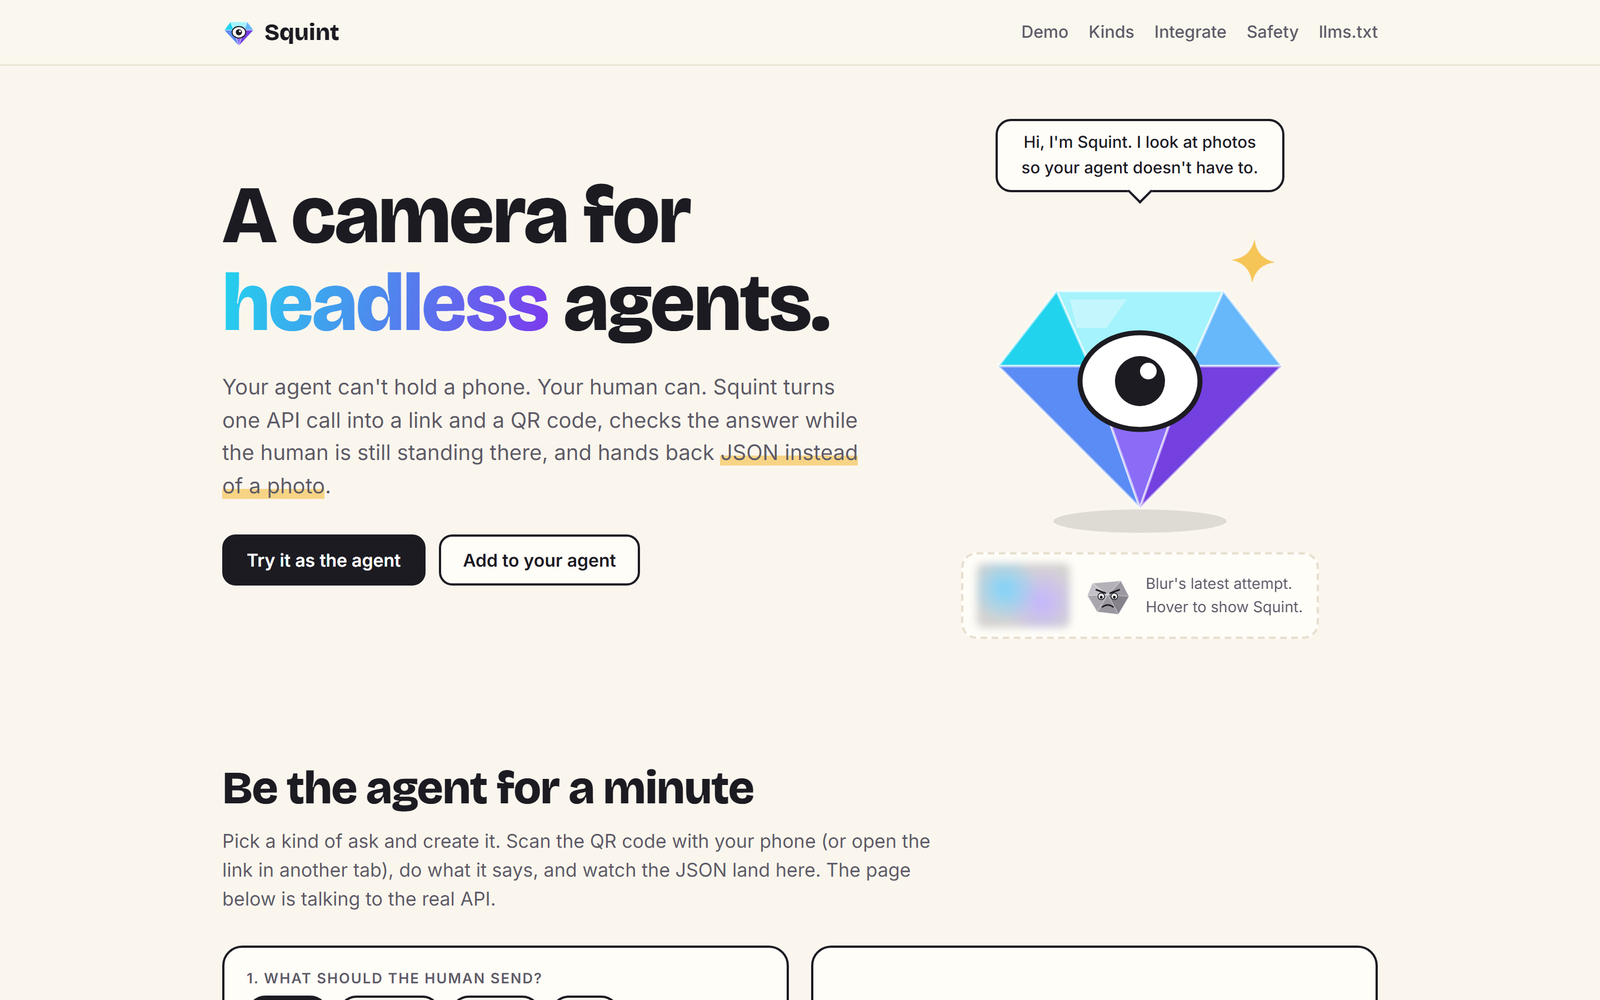
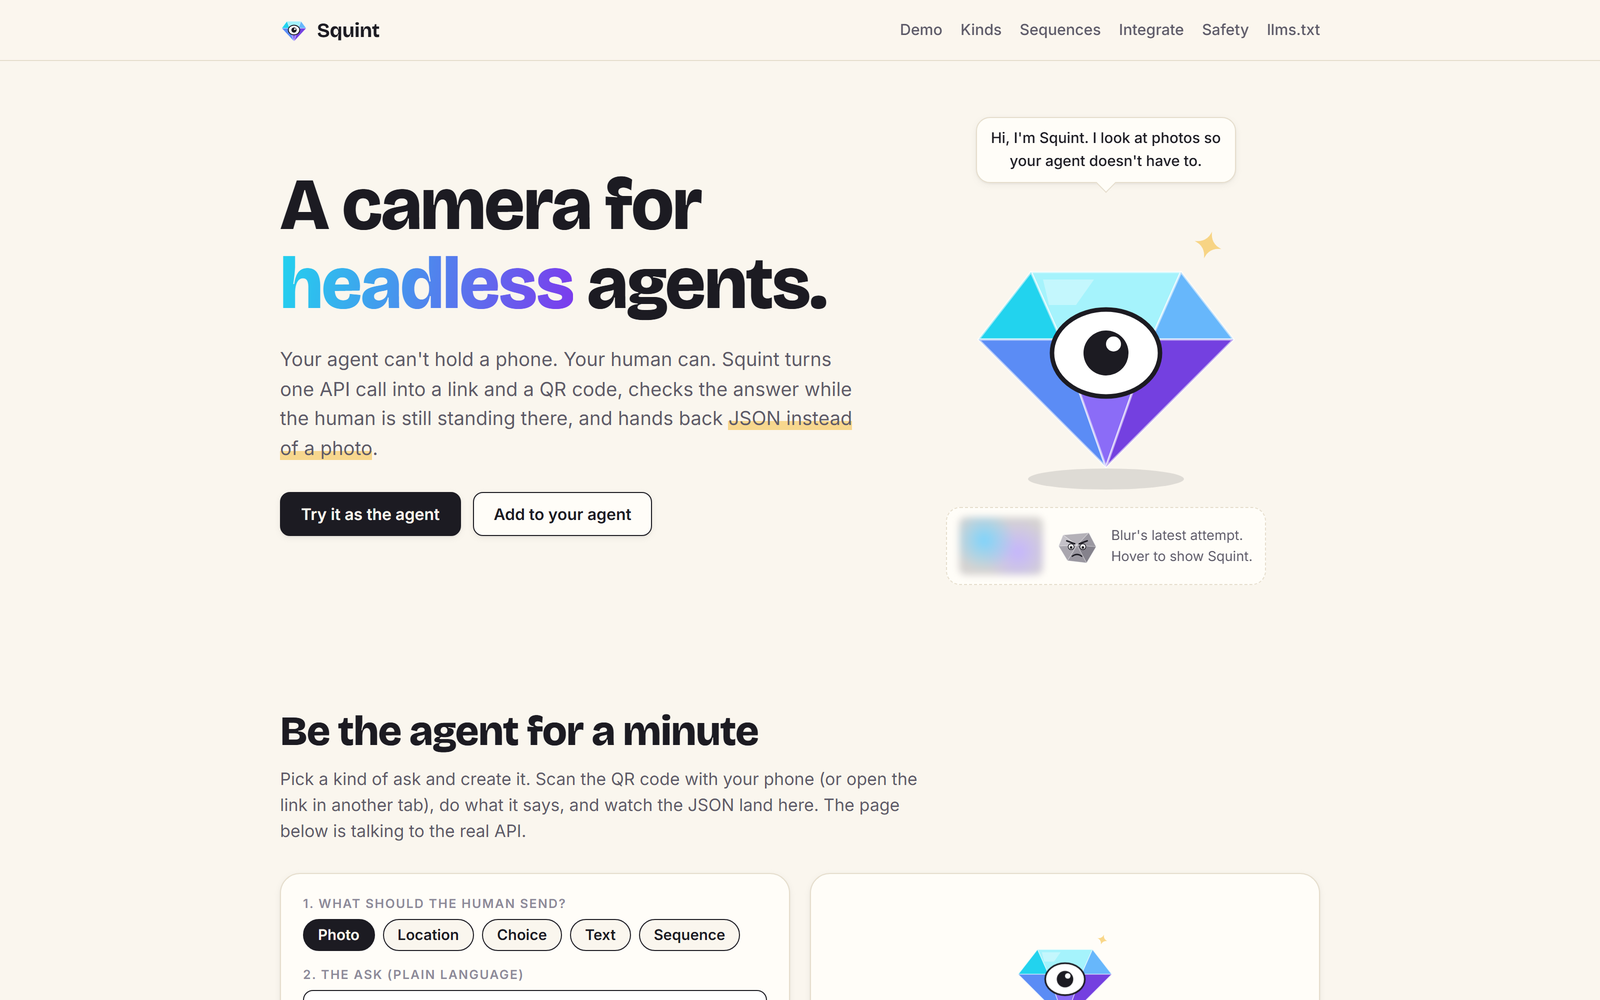
docs: reposition around human senses, document checklists
The README now leads with the wider claim the code earns: photos,
location, choices, text and sequences of them, one typed result back.
New hero shot of the rebuilt landing page.

diff --git a/README.md b/README.md
@@ -1,6 +1,6 @@
 <p align="center"><img src="public/squint.svg" width="72" alt="Squint logo"></p>
 <h1 align="center">Squint</h1>
-<p align="center">A camera for headless agents. Ask a human's phone for a photo, a location, a choice or a short text, and get typed JSON back.</p>
+<p align="center">Human senses for headless agents. Ask a person's phone for a photo, a location, a choice, a short answer, or a whole checklist of them, and get typed JSON back.</p>
 <p align="center">
   <a href="https://squint.elsisi.workers.dev">Live demo</a> ·
   <a href="#how-it-works">How it works</a> ·
@@ -14,13 +14,13 @@
 </p>
 <p align="center"><img src="docs/images/hero.png" alt="Squint landing page" width="100%"></p>
 
-An agent mints a link that asks its human's phone for one real-world thing. Claude vision checks the photo on the spot (blurry, too dark, wrong thing: the human retakes it right there), and the agent receives **typed JSON, never the image**.
+An agent mints a link that asks its human's phone for something in the real world. Claude vision checks each photo on the spot (blurry, too dark, wrong thing: the human retakes it right there), and the agent receives **typed JSON, never the image**. A `sequence` chains up to six captures behind one link, which is enough to run a vehicle handoff, a property inspection or a delivery proof as a single call.
 
 ## Why
 
 Agents with no upload UI (voice agents, background jobs, swarms, anything that talks to a person through SMS or a phone call) cannot take a picture. Today that means building an upload page and storage, then spending agent turns on "that's blurry, please retake" while every attempt costs about 1.5k image tokens.
 
-With Squint the agent makes one call, hands the URL to the human over whatever channel it already has, and waits. The result is a few dozen tokens of JSON.
+With Squint the agent makes one call, hands the URL to the human over whatever channel it already has, and waits. The result is a few dozen tokens of JSON. The retakes, the vision check and the checklist bookkeeping all happen between the phone and the Worker, outside the agent's context.
 
 ## Use it
 
@@ -127,6 +127,32 @@ Tools: `squint_ask` (returns the link immediately unless `wait_seconds` is set),
 | GET, POST | `/v1/public/asks/:id`, `/v1/public/asks/:id/submit` | API used by the phone page. Never returns the result or token. |
 | ANY | `/mcp` | Remote MCP server. |
 | GET | `/llms.txt`, `/agents.md`, `/openapi.json`, `/healthz` | Agent docs, OpenAPI, liveness. |
+
+## Checklists
+
+One link can walk a human through several captures in order:
+
+```bash
+curl -s https://squint.elsisi.workers.dev/v1/asks -H 'content-type: application/json' -d '{
+  "kind": "sequence",
+  "ask": "Vehicle pickup check-in",
+  "steps": [
+    { "kind": "photo", "ask": "the odometer", "extract": { "km": "number: the reading" } },
+    { "kind": "photo", "ask": "the left side of the car" },
+    { "kind": "location", "ask": "where the car is parked" }
+  ]
+}'
+```
+
+Each step takes the same fields as a single ask and gets its own retake budget. The phone page shows "step 2 of 3", photo steps run through vision, and when the last step lands the agent receives one result per step:
+
+```json
+{ "status": "done", "result": { "steps": [
+  { "kind": "photo", "ask": "the odometer", "result": { "fields": { "km": 48213 }, "confidence": 0.96 } },
+  { "kind": "photo", "ask": "the left side of the car", "result": { "description": "Sedan, no visible damage" } },
+  { "kind": "location", "ask": "where the car is parked", "result": { "lat": 37.7749, "lng": -122.4194, "accuracy_m": 12 } }
+] } }
+```
 
 ## How it works
 
